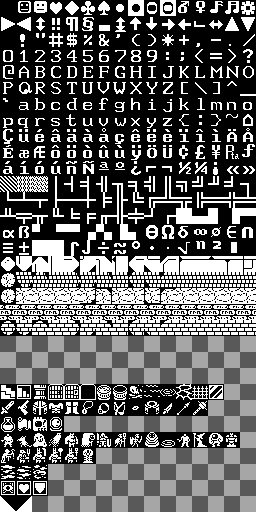
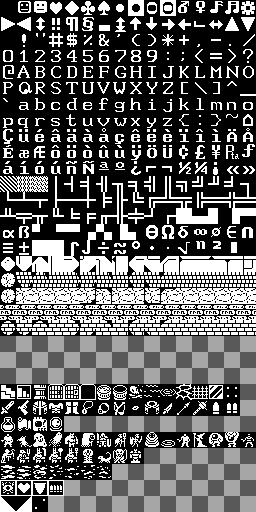
Made Chasm terrain type and update some graphics.

diff --git a/dungeongenerator.py b/dungeongenerator.py
@@ -204,41 +204,55 @@ def generate_dungeon_exploded_rooms(open_area, depth):
         minor_room_positions.add(mid_point)
         corridor = shapegenerator.three_point_rectangle_draw(edge[0], mid_point, edge[1])
         corridors_points.update(corridor)
+        room_graph.add_point(room_position)
 
+    #  Corridor and small corner room shape generation
     open_points = corridors_points
     for position in room_positions:
-        room_points = \
-            shapegenerator.random_explosion(position, room_area,
-                                            direction.AXIS_DIRECTIONS)
+        room_points = shapegenerator.random_explosion(position, room_area, direction.AXIS_DIRECTIONS)
         open_points.update(room_points)
 
     for position in minor_room_positions:
-        room_points = \
-            shapegenerator.random_explosion(position, room_area / 4,
-                                            direction.AXIS_DIRECTIONS)
+        room_points = shapegenerator.random_explosion(position, room_area / 4, direction.AXIS_DIRECTIONS)
         open_points.update(room_points)
 
-    level_shape = shapegenerator.Shape(open_points)
-    frame = 2
-    dungeon_rect = level_shape.calc_rect().expanded_by(frame)
+    #  Chasm shape generation
+    chasm_points = set()
+    for room_position in room_positions:
+        room_x, room_y = room_position
+        variance = 10
+        chasm_start_point = (random.randrange(room_x - variance, room_x + variance),
+                             random.randrange(room_y - variance, room_y + variance))
+        chasm_points.update(shapegenerator.random_explosion(chasm_start_point, room_area * 0.8, direction.AXIS_DIRECTIONS))
 
-    dungeon_level = get_full_wall_dungeon(dungeon_rect.width,
-                                          dungeon_rect.height, depth)
-    brush = SinglePointBrush(ReplaceTerrain(terrain.Floor))
+    # Normalize Points to dungeon
+    frame = 2
+    level_shape = shapegenerator.Shape(open_points)
+    chasm_shape = shapegenerator.Shape(chasm_points)
+    dungeon_rect = level_shape.calc_rect().expanded_by(frame)
+    normalized_chasm_points = chasm_shape.calc_normalized_points(frame / 2)
     normalized_open_points = level_shape.calc_normalized_points(frame / 2)
+
+    # Apply shapes to dungeon
+    dungeon_level = get_full_wall_dungeon(dungeon_rect.width, dungeon_rect.height, depth)
+
+    brush = SinglePointBrush(ReplaceTerrain(terrain.Chasm))
+    apply_brush_to_points(dungeon_level, normalized_chasm_points, brush)
+
+    brush = SinglePointBrush(ReplaceTerrain(terrain.Floor))
     apply_brush_to_points(dungeon_level, normalized_open_points, brush)
 
     feature_positions = random.sample(normalized_open_points, 3)
-    place_up_down_stairs(dungeon_level, feature_positions[0],
-                         feature_positions[1])
-    _place_feature_replace_terrain_with_floor(dungeonfeature.Fountain(),
-                                              dungeon_level,
-                                              feature_positions[2])
+    place_up_down_stairs(dungeon_level, feature_positions[0], feature_positions[1])
+    _place_feature_replace_terrain_with_floor(dungeonfeature.Fountain(), dungeon_level, feature_positions[2])
 
     return dungeon_level
 
 
 def generate_dungeon_cave_floor(size, depth):
+    """
+    Unused
+    """
     corridor_room_area_ratio = 0.25
     corridor_area = size * corridor_room_area_ratio
     corridors_directions = direction.AXIS_DIRECTIONS
@@ -263,7 +277,6 @@ def generate_dungeon_cave_floor(size, depth):
 
     dungeon_level = get_full_wall_dungeon(dungeon_rect.width,
                                           dungeon_rect.height, depth)
-
     normalized_open_points = level_shape.calc_normalized_points(frame / 2)
     brush = SinglePointBrush(ReplaceTerrain(terrain.Floor))
     apply_brush_to_points(dungeon_level, normalized_open_points, brush)

diff --git a/icon.py b/icon.py
@@ -17,6 +17,7 @@ DUNGEON_ENTITIES_ROW = FEATURE_PART + ROW_LENGTH * 3
 TOMB_ENTITIES_ROW = FEATURE_PART + ROW_LENGTH * 4
 BLOOD_ROW = FEATURE_PART + ROW_LENGTH * 5
 ICON_ROW = FEATURE_PART + ROW_LENGTH * 6
+GUI_ROW = FEATURE_PART + ROW_LENGTH * 7
 
 CENTER_DOT = 15 * ROW_LENGTH + 10
 BIG_CENTER_DOT = 15 * ROW_LENGTH + 9
@@ -39,6 +40,7 @@ WATER_RIPPLES = DUNGEON_FEATURE_ROW + 10
 LAVA = DUNGEON_FEATURE_ROW + 11
 FENCES = DUNGEON_FEATURE_ROW + 12
 GLASS_WALL = DUNGEON_FEATURE_ROW + 13
+CHASM = DUNGEON_FEATURE_ROW + 14
 
 ################
 #Equipment Items
@@ -57,6 +59,8 @@ CLOAK = EQUIPMENT_ITEMS_ROW + 9
 KNIFE = EQUIPMENT_ITEMS_ROW + 10
 SPEAR = EQUIPMENT_ITEMS_ROW + 11
 MACE = EQUIPMENT_ITEMS_ROW + 12
+AMMO1 = EQUIPMENT_ITEMS_ROW + 13
+AMMO2 = EQUIPMENT_ITEMS_ROW + 14
 
 ################
 #Usable Items
@@ -85,7 +89,8 @@ SAND_WORM_SUBMERGED = DUNGEON_ENTITIES_ROW + 10
 GUNSLINGER_THIN = DUNGEON_ENTITIES_ROW + 11
 WITCH = DUNGEON_ENTITIES_ROW + 12
 CYCLOPS = DUNGEON_ENTITIES_ROW + 13
-STATUE = DUNGEON_ENTITIES_ROW + 14
+CYCLOPS_HOLD_ROCK = DUNGEON_ENTITIES_ROW + 14
+BANDIT = DUNGEON_ENTITIES_ROW + 15
 
 ##################
 #Tomb Entities
@@ -97,6 +102,9 @@ ANUBIS_SWORD = TOMB_ENTITIES_ROW + 2
 ANUBIS_CLUB = TOMB_ENTITIES_ROW + 3
 ANUBIS_STAFF = TOMB_ENTITIES_ROW + 4
 SARCOPHAGUS = TOMB_ENTITIES_ROW + 5
+SALAMANDER = TOMB_ENTITIES_ROW + 6
+STAR_SPAWN = TOMB_ENTITIES_ROW + 7
+STATUE = TOMB_ENTITIES_ROW + 8
 
 ##################
 #Icon
@@ -105,6 +113,7 @@ SARCOPHAGUS = TOMB_ENTITIES_ROW + 5
 SANITY_STAT = ICON_ROW
 HEALTH_STAT = ICON_ROW + 1
 ARMOR_STAT = ICON_ROW + 2
+AMMO_ICON = ICON_ROW + 3
 
 HEART = 3
 
@@ -115,12 +124,18 @@ HEART = 3
 BLOOD1 = BLOOD_ROW
 BLOOD2 = BLOOD_ROW + 1
 BLOOD3 = BLOOD_ROW + 2
+BLOOD4 = BLOOD_ROW + 3
+BLOOD5 = BLOOD_ROW + 4
+BLOOD6 = BLOOD_ROW + 5
+BLOOD7 = BLOOD_ROW + 6
 
-BLOOD_ICONS = [BLOOD1, BLOOD2, BLOOD3]
+BLOOD_ICONS = [BLOOD1, BLOOD2, BLOOD3, BLOOD4, BLOOD5, BLOOD6, BLOOD7]
 
 ##################
 #GUI
 ##################
+
+FOOT_STEPS = GUI_ROW + 2
 
 #Single Line
 H_LINE = 196

diff --git a/shapegenerator.py b/shapegenerator.py
@@ -15,7 +15,7 @@ def dfs_tunnler(start_position, min_length, max_length,
         length = random.randint(min_length, max_length)
         visited.add(position)
         for _ in range(length):
-            if(len(visited) >= size):
+            if len(visited) >= size:
                 break
             position = geo.add_2d(position, direction_)
             visited.add(position)
@@ -32,11 +32,11 @@ def dfs_tunnler_with_random_stop(start_position, min_length, max_length,
         length = random.randint(min_length, max_length)
         visited.add(position)
         for _ in range(length):
-            if(len(visited) >= size):
+            if len(visited) >= size:
                 break
             position = geo.add_2d(position, direction_)
             visited.add(position)
-        if(rng.coin_flip()):
+        if rng.coin_flip():
             position = random.sample(visited, 1)[0]
     return visited
 
@@ -51,11 +51,11 @@ def dfs_tunnler_with_random_restart(start_position, min_length, max_length,
         length = random.randint(min_length, max_length)
         visited.add(position)
         for _ in range(length):
-            if(len(visited) >= size):
+            if len(visited) >= size:
                 break
             position = geo.add_2d(position, direction_)
             visited.add(position)
-        if(rng.coin_flip()):
+        if rng.coin_flip():
             position = start_position
     return visited
 

diff --git a/dungeonmask.py b/dungeonmask.py
@@ -2,6 +2,7 @@ import colors
 from compositecore import Leaf, CompositeMessage
 from console import console
 import geometry
+import icon
 import libtcodpy as libtcod
 import turn
 
@@ -239,8 +240,8 @@ class Path(Leaf):
             if not self.parent.mover.can_pass_terrain(
                     self.parent.dungeon_level.value.get_tile_or_unknown(point).get_terrain()):
                 break
-            console.set_symbol(camera.dungeon_to_screen_position(point), ":")
-            console.set_color_fg(camera.dungeon_to_screen_position(point), colors.WHITE)
+            console.set_symbol(camera.dungeon_to_screen_position(point), icon.FOOT_STEPS)
+            console.set_color_fg(camera.dungeon_to_screen_position(point), colors.GRAY)
 
     def message(self, message):
         if message == CompositeMessage.DUNGEON_LEVEL_CHANGED:

diff --git a/terrain.py b/terrain.py
@@ -101,6 +101,21 @@ class GlassWall(Composite):
         self.add_child(IsTransparent(True))
 
 
+class Chasm(Composite):
+    def __init__(self):
+        super(Chasm, self).__init__()
+        self.add_child(GamePieceType(GamePieceType.TERRAIN))
+        self.add_child(Mover())
+        self.add_child(Position())
+        self.add_child(DungeonLevel())
+        self.add_child(GraphicChar(colors.BLACK,
+                                   colors.FLOOR_BG,
+                                   icon.CHASM))
+        self.add_child(CharPrinter())
+        self.add_child(IsSolid(True))
+        self.add_child(IsTransparent(True))
+
+
 class Unknown(Composite):
     def __init__(self):
         super(Unknown, self).__init__()

diff --git a/item.py b/item.py
@@ -265,7 +265,7 @@ class Ammunition(Composite):
         self.add_child(Mover())
         self.add_child(Description("Gun Bullets",
                                    "These bullets will fit in most guns."))
-        self.add_child(GraphicChar(None, colors.GRAY, ":"))
+        self.add_child(GraphicChar(None, colors.GRAY, icon.AMMO2))
         self.add_child(DropAction())
         self.add_child(CharPrinter())
         self.add_child(Weight(1))
